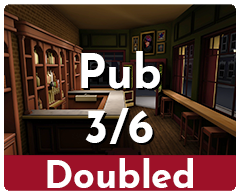
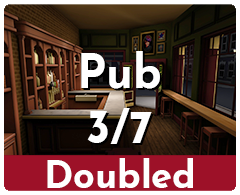
Changed Pub image to 3/7 for SCL season 7. Added Moderne to SCL Controller drop-downs.

Changed region(s): [[0.35, 0.5538, 0.6417, 0.7692]]

diff --git a/controllers/Controller Components/scl_draft.js b/controllers/Controller Components/scl_draft.js
@@ -37,6 +37,7 @@ class SclDraft extends HTMLElement {
                 <option value="gallery">Gallery</option>
                 <option value="high-rise">High-rise</option>
                 <option value="library">Library</option>
+                <option value="moderne">Moderne</option>
                 <option value="pub">Pub</option>
                 <option value="redwoods">Redwoods</option>
                 <option value="teien">Teien</option>
@@ -54,6 +55,7 @@ class SclDraft extends HTMLElement {
                 <option value="gallery">Gallery</option>
                 <option value="high-rise">High-rise</option>
                 <option value="library">Library</option>
+                <option value="moderne">Moderne</option>
                 <option value="pub">Pub</option>
                 <option value="redwoods">Redwoods</option>
                 <option value="teien">Teien</option>
@@ -70,6 +72,7 @@ class SclDraft extends HTMLElement {
                 <option value="gallery">Gallery</option>
                 <option value="high-rise">High-rise</option>
                 <option value="library">Library</option>
+                <option value="moderne">Moderne</option>
                 <option value="pub">Pub</option>
                 <option value="redwoods">Redwoods</option>
                 <option value="teien">Teien</option>
@@ -87,6 +90,7 @@ class SclDraft extends HTMLElement {
                 <option value="gallery">Gallery</option>
                 <option value="high-rise">High-rise</option>
                 <option value="library">Library</option>
+                <option value="moderne">Moderne</option>
                 <option value="pub">Pub</option>
                 <option value="redwoods">Redwoods</option>
                 <option value="teien">Teien</option>
@@ -119,6 +123,7 @@ class SclDraft extends HTMLElement {
                 <option value="gallery">Gallery</option>
                 <option value="high-rise">High-rise</option>
                 <option value="library">Library</option>
+                <option value="moderne">Moderne</option>
                 <option value="pub">Pub</option>
                 <option value="redwoods">Redwoods</option>
                 <option value="teien">Teien</option>
@@ -136,6 +141,7 @@ class SclDraft extends HTMLElement {
                 <option value="gallery">Gallery</option>
                 <option value="high-rise">High-rise</option>
                 <option value="library">Library</option>
+                <option value="moderne">Moderne</option>
                 <option value="pub">Pub</option>
                 <option value="redwoods">Redwoods</option>
                 <option value="teien">Teien</option>
@@ -152,6 +158,7 @@ class SclDraft extends HTMLElement {
                 <option value="gallery">Gallery</option>
                 <option value="high-rise">High-rise</option>
                 <option value="library">Library</option>
+                <option value="moderne">Moderne</option>
                 <option value="pub">Pub</option>
                 <option value="redwoods">Redwoods</option>
                 <option value="teien">Teien</option>
@@ -169,6 +176,7 @@ class SclDraft extends HTMLElement {
                 <option value="gallery">Gallery</option>
                 <option value="high-rise">High-rise</option>
                 <option value="library">Library</option>
+                <option value="moderne">Moderne</option>
                 <option value="pub">Pub</option>
                 <option value="redwoods">Redwoods</option>
                 <option value="teien">Teien</option>
@@ -198,6 +206,7 @@ class SclDraft extends HTMLElement {
                 <option value="gallery">Gallery</option>
                 <option value="high-rise">High-rise</option>
                 <option value="library">Library</option>
+                <option value="moderne">Moderne</option>
                 <option value="pub">Pub</option>
                 <option value="redwoods">Redwoods</option>
                 <option value="teien">Teien</option>
@@ -214,6 +223,7 @@ class SclDraft extends HTMLElement {
                 <option value="gallery">Gallery</option>
                 <option value="high-rise">High-rise</option>
                 <option value="library">Library</option>
+                <option value="moderne">Moderne</option>
                 <option value="pub">Pub</option>
                 <option value="redwoods">Redwoods</option>
                 <option value="teien">Teien</option>
@@ -229,6 +239,7 @@ class SclDraft extends HTMLElement {
                 <option value="gallery">Gallery</option>
                 <option value="high-rise">High-rise</option>
                 <option value="library">Library</option>
+                <option value="moderne">Moderne</option>
                 <option value="pub">Pub</option>
                 <option value="redwoods">Redwoods</option>
                 <option value="teien">Teien</option>
@@ -245,6 +256,7 @@ class SclDraft extends HTMLElement {
                 <option value="gallery">Gallery</option>
                 <option value="high-rise">High-rise</option>
                 <option value="library">Library</option>
+                <option value="moderne">Moderne</option>
                 <option value="pub">Pub</option>
                 <option value="redwoods">Redwoods</option>
                 <option value="teien">Teien</option>
@@ -260,6 +272,7 @@ class SclDraft extends HTMLElement {
                 <option value="gallery">Gallery</option>
                 <option value="high-rise">High-rise</option>
                 <option value="library">Library</option>
+                <option value="moderne">Moderne</option>
                 <option value="pub">Pub</option>
                 <option value="redwoods">Redwoods</option>
                 <option value="teien">Teien</option>
@@ -276,6 +289,7 @@ class SclDraft extends HTMLElement {
                 <option value="gallery">Gallery</option>
                 <option value="high-rise">High-rise</option>
                 <option value="library">Library</option>
+                <option value="moderne">Moderne</option>
                 <option value="pub">Pub</option>
                 <option value="redwoods">Redwoods</option>
                 <option value="teien">Teien</option>
